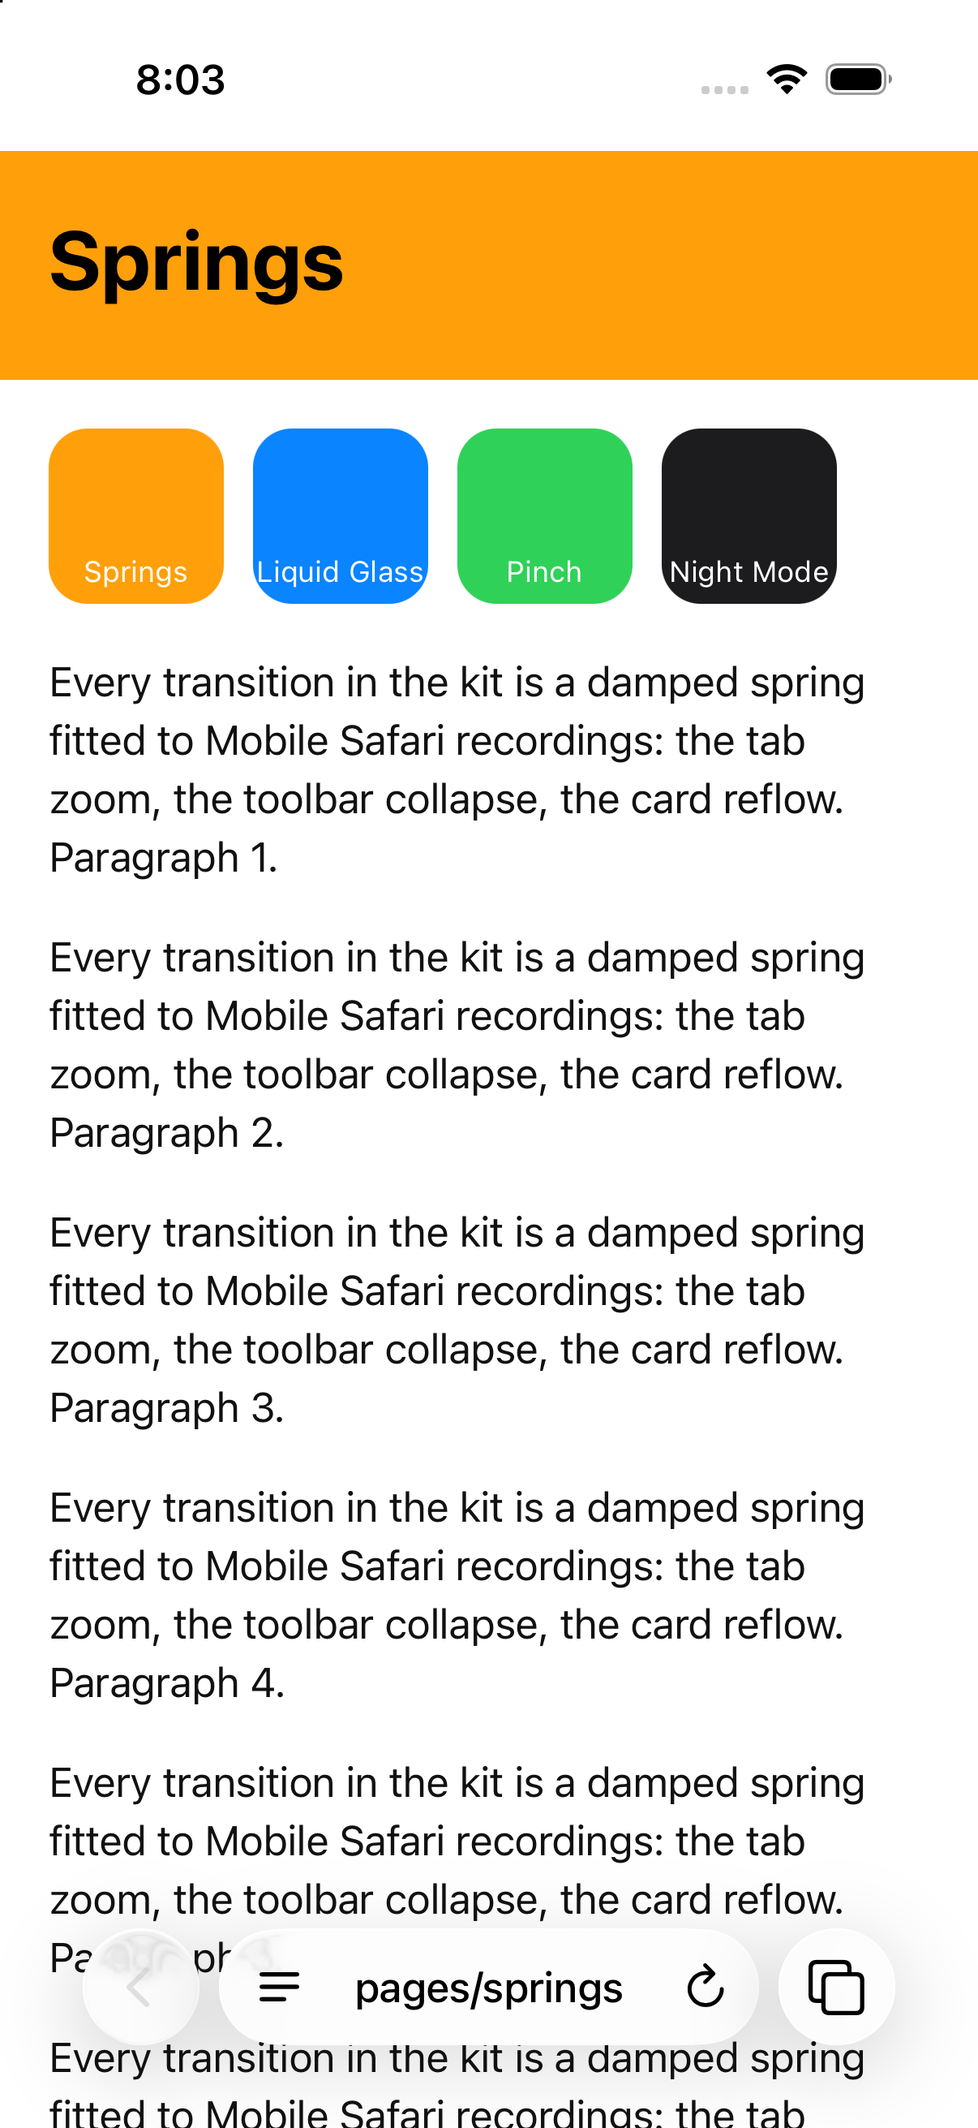
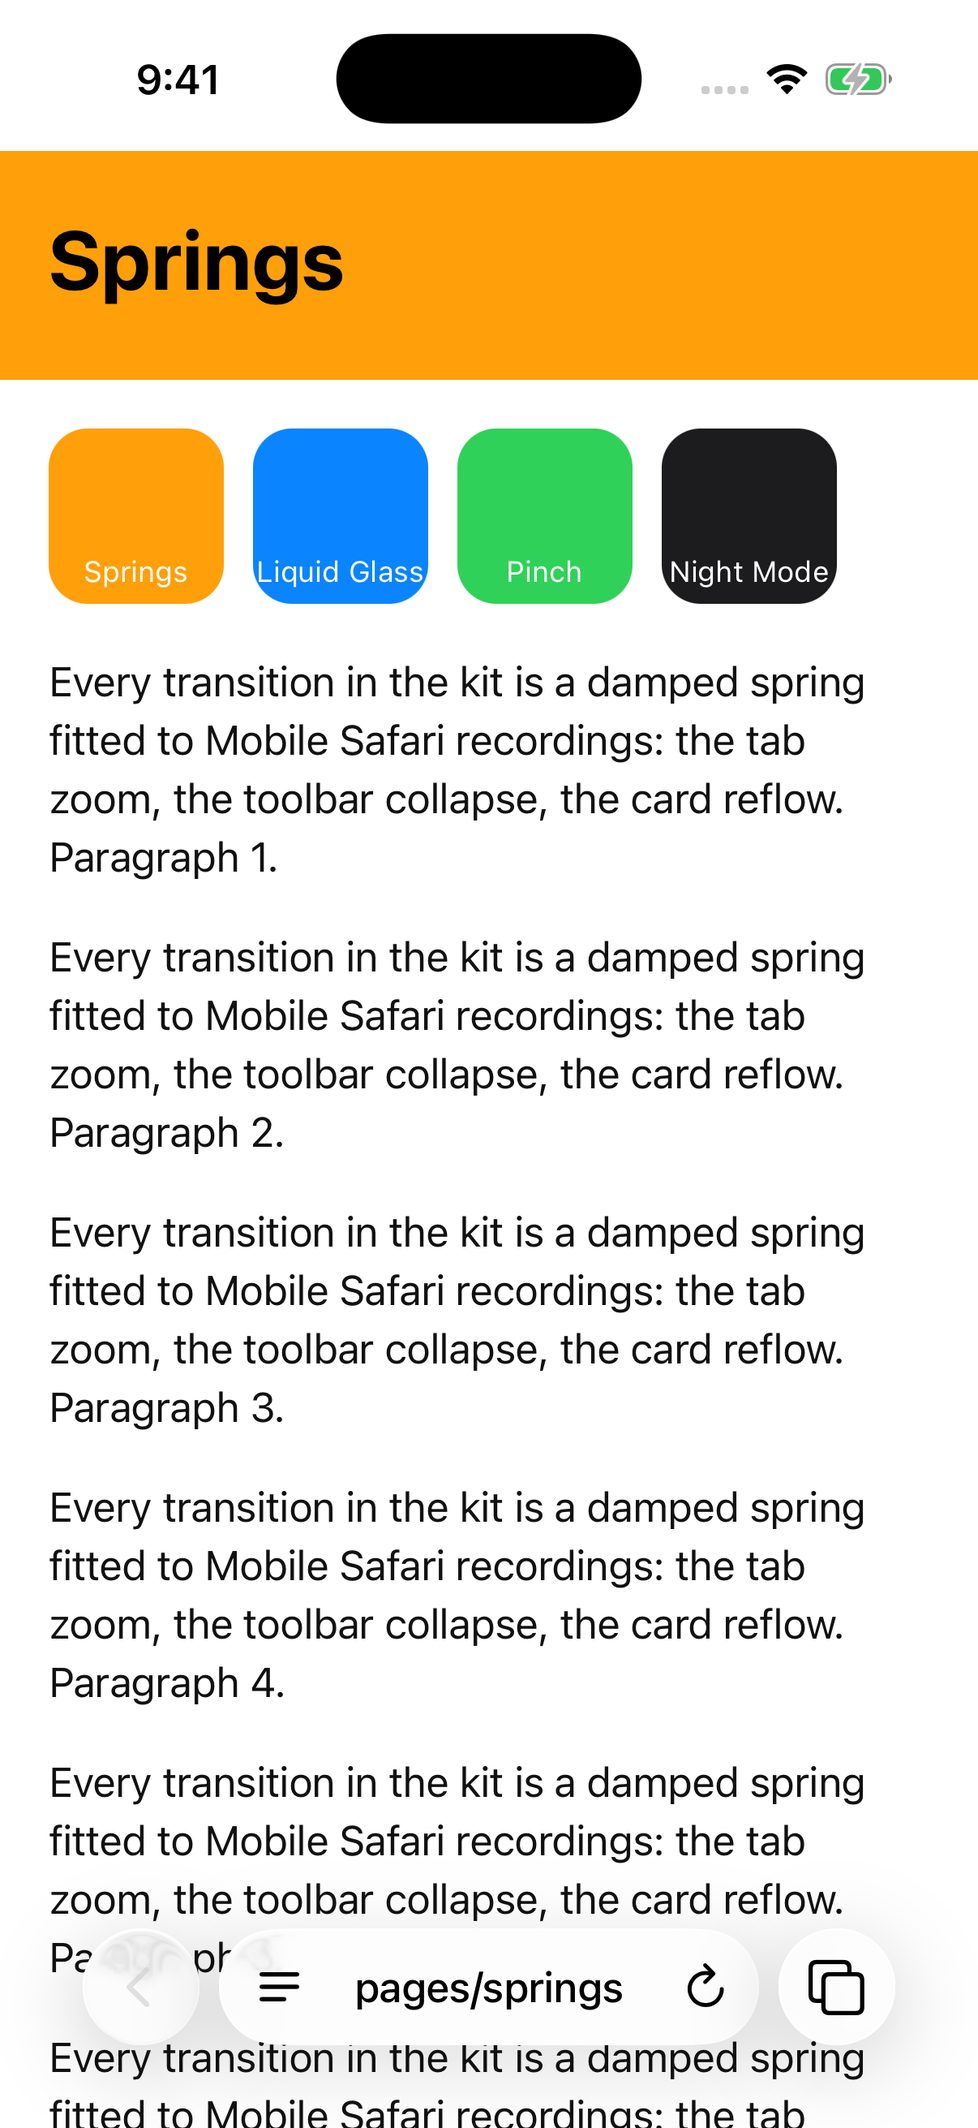
CmuxTabsKit: refusable closes, swipe-close fixes from the V1 verifier, demo verification hooks, fresh screenshots
- 8-E3: TabsDataSource.close(_:) is now async -> Bool. The card keeps its
  slot until it returns; false (with the data source's notice) springs the
  card back and shows the toast. The grid reflows when a tab leaves tabs.
- A10/A7: Reduce Motion crossfades with no movement after release; the
  fly-off is 2-3 frames and the close starts at release (ported from the
  cmux-next app, 6f3fcd46a7fa).
- A13: one accessibility element per card ("<title>, tab", Open/Close
  actions, card-sized frame); the toolbar leaves the hierarchy on the settled
  grid.
- 6.13: the toolbar row takes touches in its gaps.
- Demo: -tabCount N, -failCreate and -failClose launch arguments; README.
- 8.6: Demo/Screenshots retaken on the iPhone 17 Pro simulator (9:41 status
  bar).

Changed region(s): [[0.3375, 0.0, 0.675, 0.0618], [0.8284, 0.0309, 0.9204, 0.0618], [0.1841, 0.0309, 0.2454, 0.0618]]

diff --git a/Packages/iOS/CmuxTabsKit/Sources/CmuxTabsKit/UI/CardSwipeGesture.swift b/Packages/iOS/CmuxTabsKit/Sources/CmuxTabsKit/UI/CardSwipeGesture.swift
@@ -10,40 +10,73 @@ import UIKit
 final class CardSwipeState {
     /// Horizontal offset per card key.
     private(set) var offsets: [String: CGFloat] = [:]
-    /// Cards flying off (fading out).
-    private(set) var closing: Set<String> = []
+    /// Opacity per card key (fly-off fades, Reduce Motion crossfades).
+    private(set) var opacities: [String: Double] = [:]
 
     func offset(_ key: String) -> CGFloat { offsets[key] ?? 0 }
-    func opacity(_ key: String) -> Double { closing.contains(key) ? 0 : 1 }
+    func opacity(_ key: String) -> Double { opacities[key] ?? 1 }
 
     func track(_ key: String, translation: CGFloat) {
         var t = Transaction()
         t.disablesAnimations = true
-        withTransaction(t) { offsets[key] = CardSwipe.offset(translation: translation) }
-    }
-
-    /// Release: fly off and close, or spring back.
-    func release(_ key: String, velocity: CGFloat, card: CGRect, motion: TabsKitTheme.Motion, onClose: @escaping () -> Void) {
-        let offset = offsets[key] ?? 0
-        if CardSwipe.commits(offset: offset, velocity: velocity, cardWidth: card.width) {
-            closing.insert(key)
-            withAnimation(motion.resolve(.easeOut(duration: CardSwipe.flyOffDuration))) {
-                offsets[key] = CardSwipe.flyOffOffset(cardMinX: card.minX, cardWidth: card.width)
-            } completion: { [weak self] in
-                onClose()
-                // A refused close brings the card back: at its slot, visible.
-                self?.offsets[key] = nil
-                self?.closing.remove(key)
-            }
-        } else {
-            let s = CardSwipe.snapBack
-            withAnimation(motion.resolve(.spring(response: s.response, dampingFraction: s.damping))) { offsets[key] = 0 }
+        withTransaction(t) {
+            offsets[key] = CardSwipe.offset(translation: translation)
+            opacities[key] = nil
         }
     }
 
-    func cancel(_ key: String, motion: TabsKitTheme.Motion) {
-        let s = CardSwipe.snapBack
-        withAnimation(motion.resolve(.spring(response: s.response, dampingFraction: s.damping))) { offsets[key] = 0 }
+    /// Release: fly off and close, or spring back. `close` runs at once (the
+    /// fly-off is 2-3 frames, so the reflow follows right after it, as in
+    /// Safari) and reports whether the host closed the tab; until then the
+    /// card's slot stays (no reflow). Refused: the card comes back at its
+    /// slot. With Reduce Motion nothing slides after release: the card
+    /// fades out where it is, or reappears at its slot with a 0.18 s fade.
+    func release(_ key: String, velocity: CGFloat, card: CGRect, reduceMotion: Bool, close: @escaping () async -> Bool) {
+        let offset = offsets[key] ?? 0
+        if CardSwipe.commits(offset: offset, velocity: velocity, cardWidth: card.width) {
+            if reduceMotion {
+                withAnimation(.easeInOut(duration: CardSwipe.reduceMotionFade)) { opacities[key] = 0 }
+            } else {
+                withAnimation(.easeOut(duration: CardSwipe.flyOffDuration)) {
+                    offsets[key] = CardSwipe.flyOffOffset(cardMinX: card.minX, cardWidth: card.width)
+                    opacities[key] = 0
+                }
+            }
+            Task { [weak self] in
+                let closed = await close()
+                guard let self else { return }
+                if closed {
+                    self.offsets[key] = nil
+                    self.opacities[key] = nil
+                } else {
+                    self.comeBack(key, reduceMotion: reduceMotion)
+                }
+            }
+        } else {
+            comeBack(key, reduceMotion: reduceMotion)
+        }
+    }
+
+    func cancel(_ key: String, reduceMotion: Bool) { comeBack(key, reduceMotion: reduceMotion) }
+
+    /// Back to the card's slot: the snap-back spring, or (Reduce Motion) a
+    /// 0.18 s fade in at the slot with no movement.
+    private func comeBack(_ key: String, reduceMotion: Bool) {
+        if reduceMotion {
+            var t = Transaction()
+            t.disablesAnimations = true
+            withTransaction(t) {
+                offsets[key] = 0
+                opacities[key] = 0
+            }
+            withAnimation(.easeInOut(duration: CardSwipe.reduceMotionFade)) { opacities[key] = 1 }
+        } else {
+            let s = CardSwipe.snapBack
+            withAnimation(.spring(response: s.response, dampingFraction: s.damping)) {
+                offsets[key] = 0
+                opacities[key] = 1
+            }
+        }
     }
 }
 

diff --git a/Packages/iOS/CmuxTabsKit/Demo/Sources/DemoTabs.swift b/Packages/iOS/CmuxTabsKit/Demo/Sources/DemoTabs.swift
@@ -27,11 +27,26 @@ final class DemoTabs: TabsDataSource {
         TabsKitNewTabOption(id: "note", title: "New Note", systemImage: "note.text", kind: DemoTabs.note),
     ]
 
+    /// Verification hooks (launch arguments): `-tabCount N` starts with N web
+    /// pages (0 and 50 included) instead of the default set; `-failCreate`
+    /// refuses every new tab; `-failClose` refuses every close.
+    private let failCreate = ProcessInfo.processInfo.arguments.contains("-failCreate")
+    private let failClose = ProcessInfo.processInfo.arguments.contains("-failClose")
+    private(set) var notice: String?
+
     init() {
-        for name in ["springs", "glass", "pinch", "night"] { addWebPage(URL(string: "tabskit://pages/\(name)")!) }
-        addNote("Notes are plain SwiftUI tabs.\n\nThey get the same grid, zoom, swipe and toolbar as web pages, with their own card, page menu and an accessory row above the toolbar.")
+        let args = ProcessInfo.processInfo.arguments
+        let names = ["springs", "glass", "pinch", "night"]
+        if let i = args.firstIndex(of: "-tabCount"), i + 1 < args.count, let n = Int(args[i + 1]) {
+            for k in 0..<max(0, n) { addWebPage(URL(string: "tabskit://pages/\(names[k % names.count])")!) }
+        } else {
+            for name in names { addWebPage(URL(string: "tabskit://pages/\(name)")!) }
+            addNote("Notes are plain SwiftUI tabs.\n\nThey get the same grid, zoom, swipe and toolbar as web pages, with their own card, page menu and an accessory row above the toolbar.")
+        }
         activeTabID = order.first
     }
+
+    func clearNotice() { notice = nil }
 
     // MARK: TabsDataSource
 
@@ -43,16 +58,25 @@ final class DemoTabs: TabsDataSource {
         activeTabID = id
     }
 
-    func close(_ id: String) {
-        guard let index = order.firstIndex(of: id) else { return }
+    func close(_ id: String) async -> Bool {
+        guard let index = order.firstIndex(of: id) else { return true }
+        if failClose {
+            notice = "Couldn't close \(tab(for: id)?.title ?? "the tab"): the demo refuses closes (-failClose)."
+            return false
+        }
         order.remove(at: index)
         webPages[id] = nil
         notes[id] = nil
         thumbnails[id] = nil
         if activeTabID == id { activeTabID = order.isEmpty ? nil : order[min(index, order.count - 1)] }
+        return true
     }
 
     func createTab(_ option: TabsKitNewTabOption) async -> String? {
+        if failCreate {
+            notice = "Couldn't open a new tab: the demo refuses new tabs (-failCreate)."
+            return nil
+        }
         let id = option.kind == Self.note ? addNote("") : addWebPage(DemoSite.start)
         activate(id)
         return id
@@ -108,7 +132,7 @@ final class DemoTabs: TabsDataSource {
         if notes[tab.id] != nil {
             return [[
                 TabsKitMenuItem(title: "Clear Note", systemImage: "eraser") { [weak self] in self?.notes[tab.id] = "" },
-                TabsKitMenuItem(title: "Close Note", systemImage: "xmark.square", isDestructive: true) { [weak self] in self?.close(tab.id) },
+                TabsKitMenuItem(title: "Close Note", systemImage: "xmark.square", isDestructive: true) { [weak self] in Task { _ = await self?.close(tab.id) } },
             ]]
         }
         let web = webPages[tab.id]?.webView
@@ -121,7 +145,7 @@ final class DemoTabs: TabsDataSource {
                 },
             ],
             [
-                TabsKitMenuItem(title: "Close Tab", systemImage: "xmark.square") { [weak self] in self?.close(tab.id) },
+                TabsKitMenuItem(title: "Close Tab", systemImage: "xmark.square") { [weak self] in Task { _ = await self?.close(tab.id) } },
             ],
         ]
     }

diff --git a/Packages/iOS/CmuxTabsKit/Sources/CmuxTabsKit/UI/TabOverview.swift b/Packages/iOS/CmuxTabsKit/Sources/CmuxTabsKit/UI/TabOverview.swift
@@ -61,6 +61,7 @@ struct TabCard<Content: View>: View {
     /// The zoom draws this card's content and close button; its title row
     /// stays here and fades in with the others.
     var contentHidden = false
+    var onOpen: () -> Void = {}
     var onClose: () -> Void
     @ViewBuilder var content: Content
 
@@ -102,8 +103,13 @@ struct TabCard<Content: View>: View {
             .opacity(titleOpacity)
         }
         .frame(width: width, alignment: .top)
-        .accessibilityElement(children: .combine)
-        .accessibilityAddTraits(.isButton)
+        // One element per card, framed to the card and its title row, with
+        // Open and Close actions (no nested images or buttons).
+        .accessibilityRepresentation {
+            Button("\(title), tab", action: onOpen)
+                .accessibilityAction(named: "Open", onOpen)
+                .accessibilityAction(named: "Close", onClose)
+        }
     }
 }
 
@@ -126,7 +132,8 @@ struct TabOverview<Source: TabsDataSource>: View {
     @Binding var scrollOffset: CGFloat
     @Binding var position: ScrollPosition
     var onSelect: (String) -> Void
-    var onClose: (String) -> Void
+    /// Closes the card's tab; false when refused (it stays).
+    var onClose: (String) async -> Bool
     var onNewTab: (TabsKitNewTabOption) -> Void
     var onDone: () -> Void
     var onCloseAll: () -> Void
@@ -151,7 +158,8 @@ struct TabOverview<Source: TabsDataSource>: View {
                         TabCard(title: tab.title, systemImage: tab.systemImage, pageSize: layout.size, width: r.width, height: r.height,
                                 radius: layout.cardRadius, showsClose: true, closeOpacity: chrome.closeOpacity,
                                 titleOpacity: chrome.titleOpacity, titleOffset: chrome.titleOffset,
-                                contentHidden: tab.id == hiddenTabId, onClose: { onClose(tab.id) }) {
+                                contentHidden: tab.id == hiddenTabId, onOpen: { onSelect(tab.id) },
+                                onClose: { Task { _ = await onClose(tab.id) } }) {
                             source.card(for: tab)
                         }
                         .contentShape(.rect)
@@ -161,8 +169,10 @@ struct TabOverview<Source: TabsDataSource>: View {
                             switch phase {
                             case .changed(let dx): swipes.track(tab.id, translation: dx)
                             case .ended(_, let v):
-                                swipes.release(tab.id, velocity: v, card: r, motion: theme.motion) { onClose(tab.id) }
-                            case .cancelled: swipes.cancel(tab.id, motion: theme.motion)
+                                swipes.release(tab.id, velocity: v, card: r, reduceMotion: UIAccessibility.isReduceMotionEnabled) {
+                                    await onClose(tab.id)
+                                }
+                            case .cancelled: swipes.cancel(tab.id, reduceMotion: UIAccessibility.isReduceMotionEnabled)
                             }
                         })
                         .opacity(swipes.opacity(tab.id))
@@ -181,6 +191,9 @@ struct TabOverview<Source: TabsDataSource>: View {
                     }
                 }
                 .frame(width: layout.size.width, height: layout.contentHeight, alignment: .topLeading)
+                // The grid reflows when a tab leaves (the data source removes
+                // it once its close succeeded).
+                .animation(theme.motion.resolve(theme.motion.reflow), value: tabs.map(\.id))
                 .onGeometryChange(for: CGPoint.self, of: { $0.frame(in: .named(TabsScreenSpace.name)).origin }) { onContentOrigin($0) }
             }
             .scrollPosition($position)

diff --git a/Packages/iOS/CmuxTabsKit/Sources/CmuxTabsKit/UI/TabsView.swift b/Packages/iOS/CmuxTabsKit/Sources/CmuxTabsKit/UI/TabsView.swift
@@ -106,7 +106,7 @@ struct TabsScreen<Source: TabsDataSource>: View {
                         controlsInteractive: overviewVisible && zoomState.headingToOverview,
                         scrollOffset: $overviewScroll, position: $overviewPosition,
                         onSelect: { closeOverview(selecting: $0) },
-                        onClose: { id in withAnimation(theme.motion.resolve(theme.motion.reflow)) { source.close(id) } },
+                        onClose: { id in await source.close(id) },
                         onNewTab: newTabFromOverview,
                         onDone: { closeOverview(selecting: activeID) },
                         onCloseAll: closeAll,
@@ -138,6 +138,9 @@ struct TabsScreen<Source: TabsDataSource>: View {
                 .frame(width: size.width, height: size.height)
             }
 
+            // Out of the hierarchy on the settled grid (invisible there, and
+            // accessibility tools list hidden views too).
+            if zoomState.phase != .overview {
             TabsToolbar(chrome: chrome, tab: activeTab, size: size, safeBottom: safeBottom, keyboard: keyboard,
                         history: source.providesHistoryMenus ? { direction in
                             activeID.map { source.history(direction, for: $0) } ?? []
@@ -153,6 +156,7 @@ struct TabsScreen<Source: TabsDataSource>: View {
                 // Usable on the page, and while a zoom heads back to the page
                 // (the tabs button then reverses it).
                 .allowsHitTesting(!chrome.menuOpen && (zoomState.pageInteractive || (zoomState.phase == .animating && !zoomState.headingToOverview)))
+            }
 
             // Kept mounted (transparent) so the droplet starts growing on
             // the first frame after the tap instead of after its first layout.
@@ -271,7 +275,7 @@ struct TabsScreen<Source: TabsDataSource>: View {
         .overlay(alignment: .topTrailing) {
             if zoomTabId != TabsScreenSpace.newTabMarker || phase == .overview, let id = activeID {
                 Button {
-                    withAnimation(theme.motion.resolve(theme.motion.reflow)) { source.close(id) }
+                    Task { _ = await source.close(id) }
                 } label: {
                     CardCloseGlyph().padding(4).contentShape(.rect)
                 }
@@ -483,7 +487,7 @@ struct TabsScreen<Source: TabsDataSource>: View {
 
     private func closeAll() {
         let ids = tabs.map(\.id)
-        withAnimation(theme.motion.resolve(theme.motion.reflow)) { for id in ids { source.close(id) } }
+        Task { for id in ids { _ = await source.close(id) } }
         if let option = source.newTabOptions.first { newTabFromOverview(option) }
     }
 

diff --git a/Packages/iOS/CmuxTabsKit/Sources/CmuxTabsKit/Logic/CardSwipe.swift b/Packages/iOS/CmuxTabsKit/Sources/CmuxTabsKit/Logic/CardSwipe.swift
@@ -10,8 +10,9 @@ import CoreGraphics
 /// - Release closes when the card is at least 72% of its width to the left,
 ///   or when the finger leaves leftward faster than 225 pt/s; otherwise the
 ///   card springs back (response 0.56, damping 0.92).
-/// - Closing: the card flies off to the left and fades within about two
-///   frames, then the grid reflows with the close button's reflow spring.
+/// - Closing: the card flies off to the left and fades within 2-3 frames,
+///   then the grid reflows with the close button's reflow spring (once the
+///   host confirmed the close; a refused close brings the card back).
 struct CardSwipe: Equatable, Sendable {
     static let commitFraction: CGFloat = 0.72
     static let flingVelocity: CGFloat = 225
@@ -19,7 +20,10 @@ struct CardSwipe: Equatable, Sendable {
     static let rubberDimension: CGFloat = 120
     static let rubberConstant: CGFloat = 0.55
     static let snapBack = ZoomSpring(response: 0.56, damping: 0.92)
-    static let flyOffDuration = 0.12
+    /// Safari's fly-off: the card is gone in 2-3 frames, then the reflow.
+    static let flyOffDuration = 0.04
+    /// Reduce Motion: no movement after release, a crossfade instead.
+    static let reduceMotionFade = 0.18
 
     /// The card's offset for a finger translation.
     static func offset(translation dx: CGFloat) -> CGFloat {

diff --git a/Packages/iOS/CmuxTabsKit/Sources/CmuxTabsKit/API/TabsDataSource.swift b/Packages/iOS/CmuxTabsKit/Sources/CmuxTabsKit/API/TabsDataSource.swift
@@ -28,8 +28,12 @@ public protocol TabsDataSource: AnyObject, Observable {
 
     /// Makes `id` the active tab (a card tapped, a swipe, a suggestion).
     func activate(_ id: TabsKitTab.ID)
-    /// Closes `id`. When it was active, pick the next active tab.
-    func close(_ id: TabsKitTab.ID)
+    /// Closes `id` and returns true once it is gone from `tabs` (when it
+    /// was active, pick the next active tab). Return false when the close
+    /// was refused: the tab stays in `tabs`, its card springs back, and the
+    /// kit shows your `notice` (set it to say why). The card keeps its slot
+    /// (no reflow) until this returns.
+    func close(_ id: TabsKitTab.ID) async -> Bool
     /// Creates a tab, appends it to `tabs`, makes it active and returns its
     /// id; nil when it could not be created (the grid stays as it was).
     func createTab(_ option: TabsKitNewTabOption) async -> TabsKitTab.ID?

diff --git a/Packages/iOS/CmuxTabsKit/Sources/CmuxTabsKit/UI/Toolbar.swift b/Packages/iOS/CmuxTabsKit/Sources/CmuxTabsKit/UI/Toolbar.swift
@@ -95,6 +95,16 @@ struct TabsToolbar: View {
         // shapes together and ignores per-shape opacity, which the side
         // circles need for Safari's fade while they slide inward.
         ZStack(alignment: .topLeading) {
+            // The whole bar row takes touches, gaps included: a touch between
+            // the controls must not reach the page under the toolbar.
+            let row = layout.back.union(layout.capsule).union(layout.right)
+            Color.clear
+                .frame(width: row.width, height: row.height)
+                .contentShape(.rect)
+                .onTapGesture {}
+                .position(x: row.midX, y: row.midY)
+                .allowsHitTesting(!collapsed)
+                .accessibilityHidden(true)
             backButton(layout.back)
                 .scaleEffect(collapsed ? 0.8 : 1)
                 .opacity(features.contains(.history) ? sideOpacity : 0)

diff --git a/Packages/iOS/CmuxTabsKit/README.md b/Packages/iOS/CmuxTabsKit/README.md
@@ -50,7 +50,8 @@ transport or models.
 - **Swipe to close.** Swipe a card left to close it, as in Safari: horizontal
   drags only, 1:1 to the left (rubber band to the right), closes past 72% of
   the card's width or on a left fling faster than 225 pt/s, else springs back;
-  the close goes through your `close(_:)` and the grid reflows.
+  the close goes through your `close(_:)`, and the grid reflows once it
+  returns true (false: the card springs back and your `notice` shows).
 - **Pinch.** Pinch in on a page to go to the grid; pinch out on a card to
   open it. Tracking is 1:1 with rubber banding, and release keeps the finger
   velocity.
@@ -82,9 +83,10 @@ final class MyTabs: TabsDataSource {
 
     func activate(_ id: String) { activeTabID = id }
 
-    func close(_ id: String) {
+    func close(_ id: String) async -> Bool {
         tabs.removeAll { $0.id == id }
         if activeTabID == id { activeTabID = tabs.last?.id }
+        return true  // false (with `notice` set) when the close was refused
     }
 
     func createTab(_ option: TabsKitNewTabOption) async -> String? {
@@ -230,6 +232,11 @@ xcodebuild -project CmuxTabsKitDemo.xcodeproj -scheme CmuxTabsKitDemo \
 
 Launch the demo with the `-showGrid` argument to open the grid once the
 first page has loaded.
+
+Verification hooks (launch arguments): `-tabCount N` starts with N web pages
+(try 0 and 50), `-failCreate` refuses every New Tab and `-failClose` refuses
+every close; both refusals show the data source's `notice` as a toast and the
+grid stays as it was (a swiped card springs back).
 
 ## Tests
 
